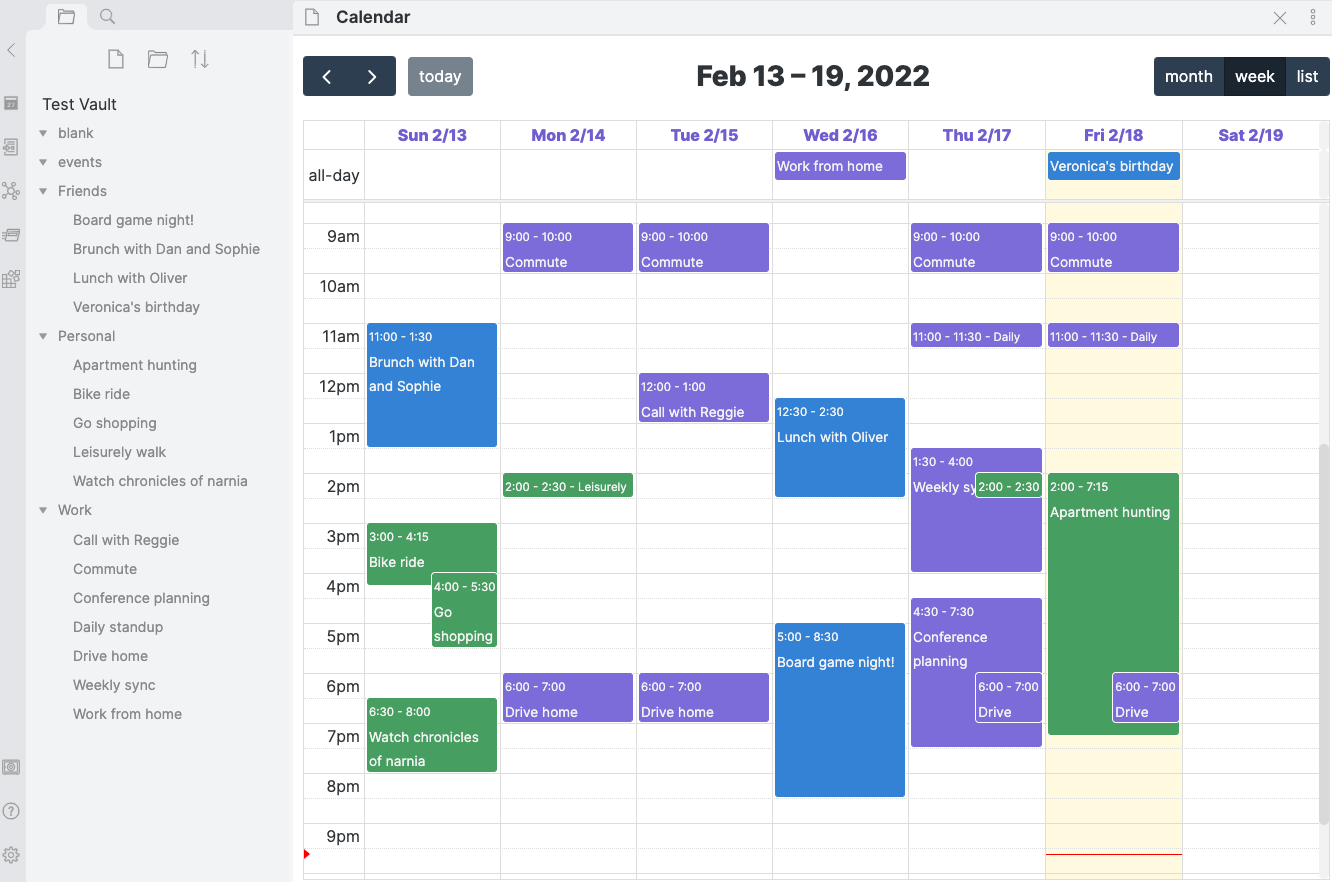
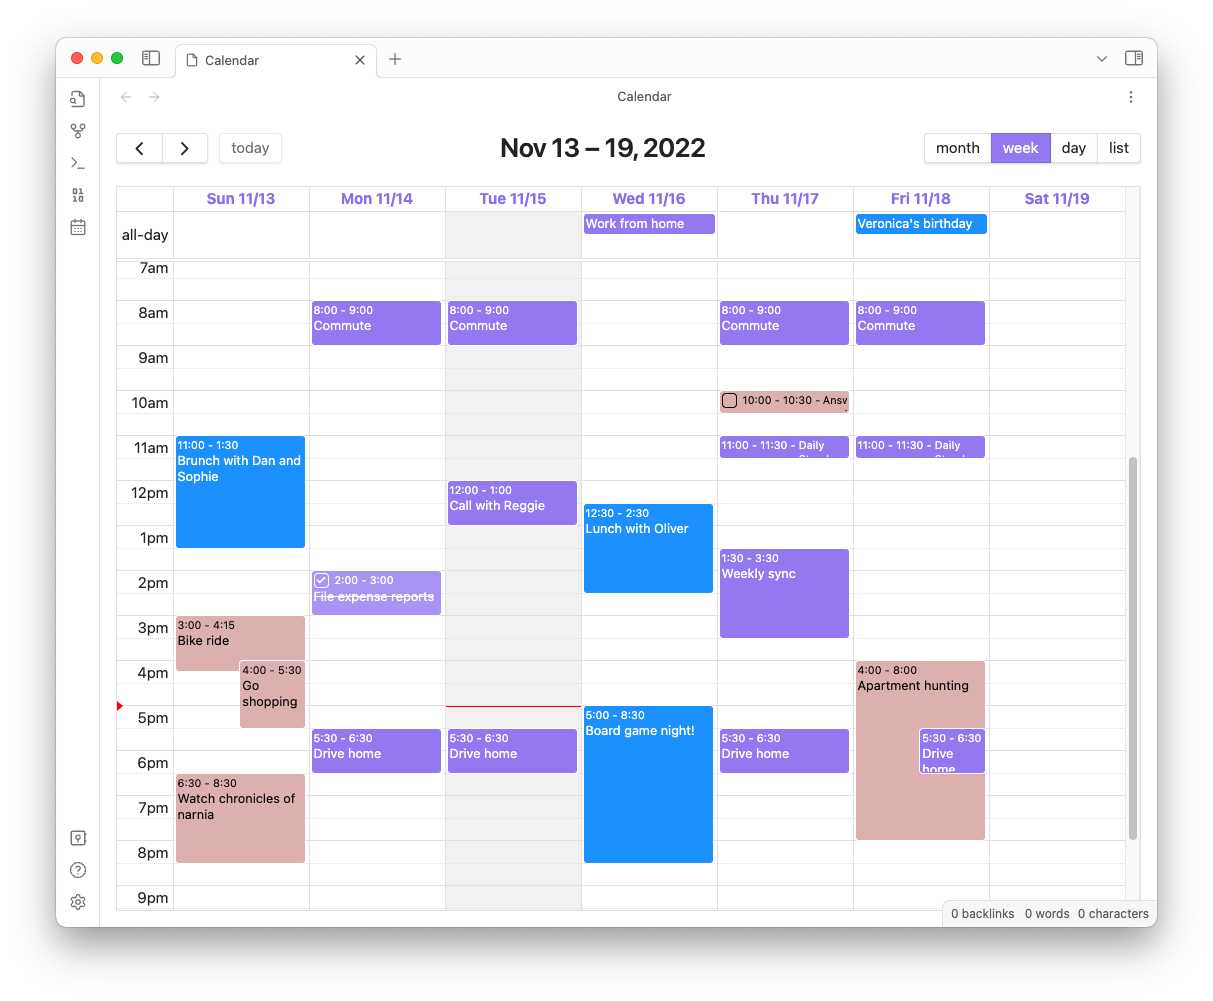
visual tweaks and new main photo

diff --git a/src/models/util.ts b/src/models/util.ts
@@ -14,7 +14,7 @@ export function getColors(color: string | null | undefined): {
 				g = parseInt(m[1], 16),
 				b = parseInt(m[2], 16);
 			const brightness = (r * 299 + g * 587 + b * 114) / 1000;
-			if (brightness > 114) {
+			if (brightness > 150) {
 				textVar = "black";
 			}
 		}

diff --git a/src/overrides.css b/src/overrides.css
@@ -53,6 +53,9 @@
 
 .ofc-has-checkbox {
 	display: flex !important;
+}
+
+.ofc-has-checkbox.fc-list-event-title {
 	align-items: center;
 }
 
